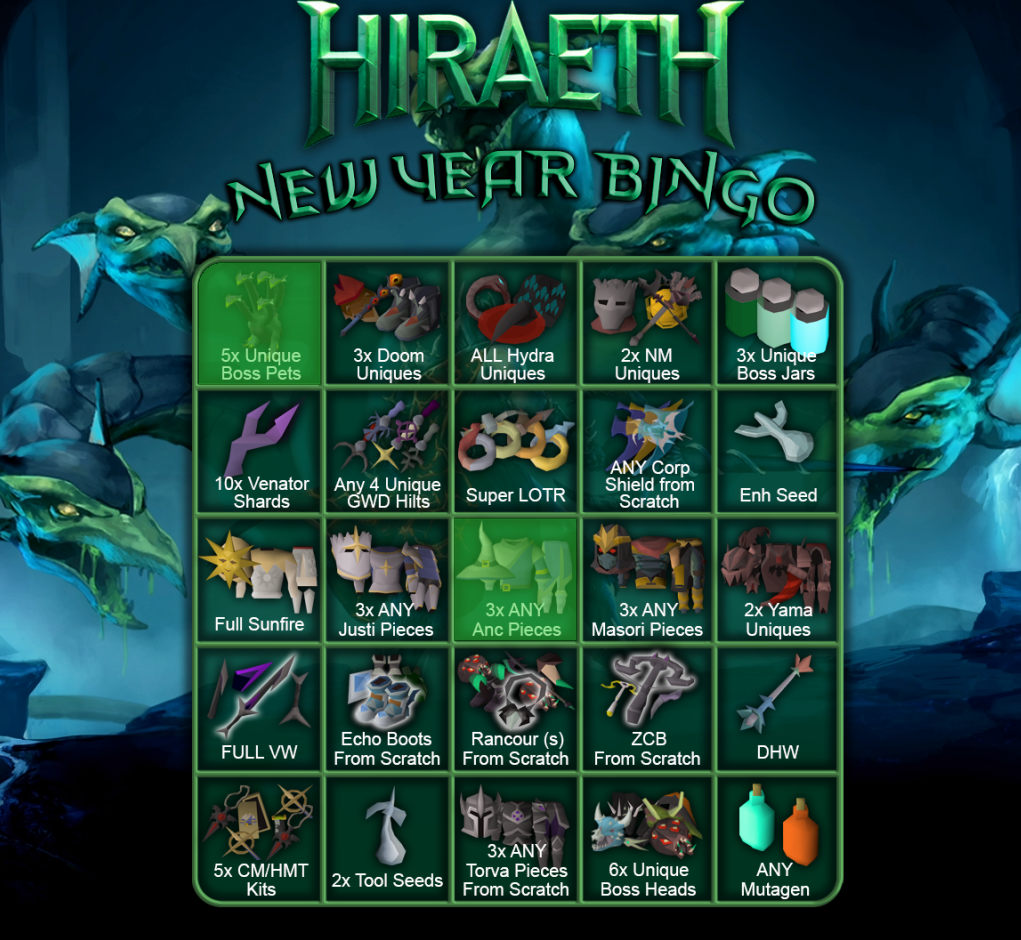
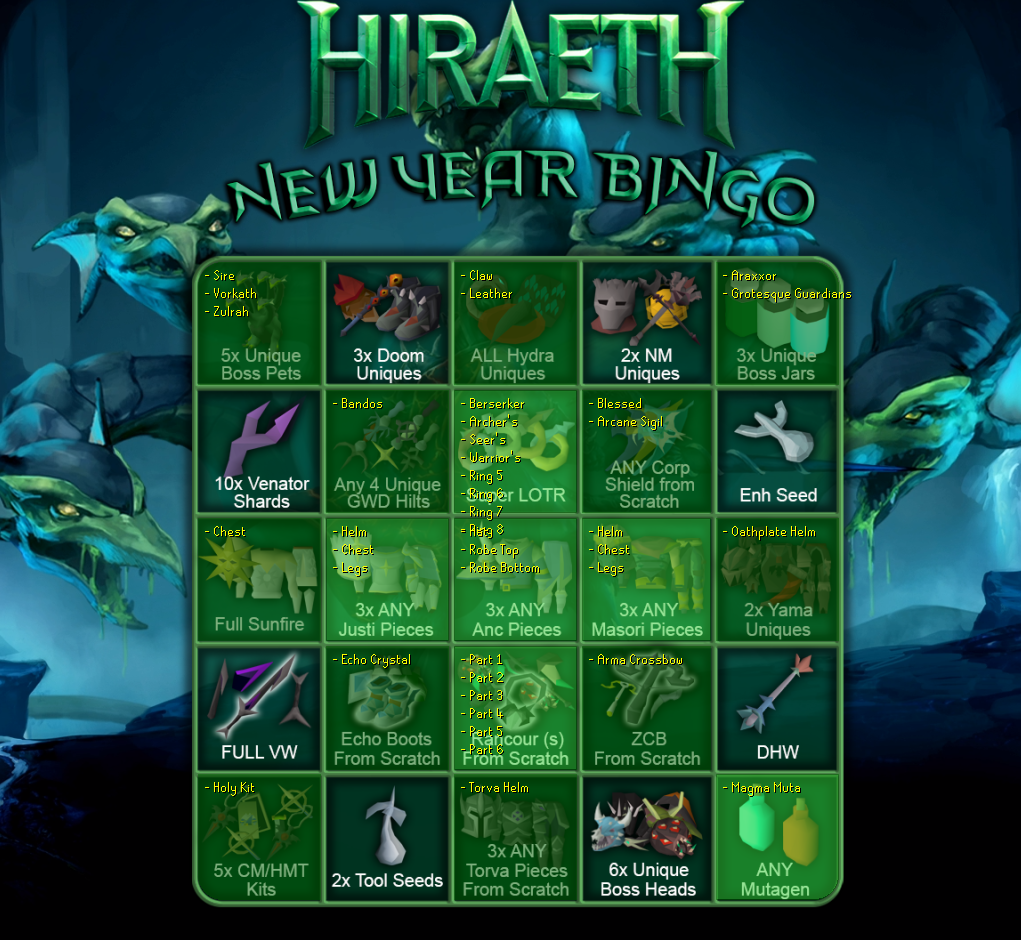
Implemented and tested update_board() function.

Changed region(s): [[0.1822, 0.2777, 0.8198, 0.9564]]

diff --git a/bingo_updater.py b/bingo_updater.py
@@ -1,33 +1,97 @@
-from PIL import Image, ImageDraw
-import sys
+from PIL import Image, ImageDraw, ImageFont
 
 
-GRID_MIN = (192, 256)
-GRID_MAX = (843, 907)
+X_MIN, Y_MIN = 192, 256
+X_MAX, Y_MAX = 843, 907
 BORDER = 6
 RADIUS = 24
+CELL_SIZE = int((X_MAX - X_MIN - 6*BORDER) / 5) - 1
 
-CELL_COLOR = "LimeGreen"
-BORDER_COLOR = "DarkGreen"
-FONT_COLOR = "Lime"
-FONT = "runescape.ttf"
+CELL_COLOR = (50, 205, 50, 255)  # 'LimeGreen'
+BORDER_COLOR = (0, 100, 0, 255)  # 'DarkGreen'
+FONT_COLOR = (255, 255, 0, 255)  # 'Yellow'
+SHADOW_COLOR = (0, 0, 0, 255)    # 'Black'
+FONT = ImageFont.truetype('fonts/runescape.ttf', 16)
 
 
-with Image.open("bingo_board.png") as img:
-    board = img.copy()
+def update_board(board_list, board_image='bingo_board.png'):
+    with Image.open(board_image) as board:
+        overlay = board.copy()
+        text_layer = Image.new('RGBA', board.size, (0, 0, 0, 0))
+
+        checked_items = get_checked(board_list)
+
+        for row in range(5):
+            for col in range(5):
+                complete = len(checked_items[row][col]) == len(board_list[row][col])
+                if checked_items[row][col]:
+                    update_tile(overlay, text_layer, row, col, to_str(checked_items[row][col]), complete)
+
+        board = Image.blend(board, overlay, 0.5)
+        board.paste(text_layer, mask=text_layer)
+        board.save('new_board.png')
+
+
+def update_tile(overlay, text_layer, row, col, list_text, complete):
+    draw_square(overlay, row, col, complete)
+    draw_text(text_layer, row, col, list_text)
+
+
+def draw_text(board, row, col, list_text):
+    draw = ImageDraw.Draw(board)
+    padding = 6
+
+    x0, y0, *_ = get_coords(row, col)
+    x0 += padding
+    y0 += padding
+
+    draw.multiline_text((x0+1, y0+1), list_text, SHADOW_COLOR, FONT)
+    draw.multiline_text((x0, y0), list_text, FONT_COLOR, FONT)
+
+
+def draw_square(board, row, col, complete):
     draw = ImageDraw.Draw(board)
 
-    x0, y0 = GRID_MIN
-    x1, y1 = GRID_MAX
-    cell_size = int((x1 - x0 - 6*BORDER) / 5) - 1
+    corners = ((row, col) == (0, 0), (row, col) == (0, 4), 
+               (row, col) == (4, 4), (row, col) == (4, 0))
+    
+    draw.rounded_rectangle(get_coords(row, col), 
+                           fill=CELL_COLOR if complete else BORDER_COLOR, 
+                           outline=BORDER_COLOR, width=1, 
+                           radius=RADIUS, corners=corners)
 
-    draw.rounded_rectangle([x0+BORDER, y0+BORDER, x0+BORDER+cell_size, y0+BORDER+cell_size], 
-                           fill=CELL_COLOR, outline=BORDER_COLOR, width=1, 
-                           radius=RADIUS, corners=(1, 0, 0, 0))
 
-    draw.rounded_rectangle([x0+3*BORDER+2*cell_size, y0+3*BORDER+2*cell_size, x0+3*BORDER+3*cell_size, y0+3*BORDER+3*cell_size], 
-                           fill=CELL_COLOR, outline=BORDER_COLOR, width=1, 
-                           radius=RADIUS, corners=(0, 0, 0, 0))
+def get_checked(board_list):
+    return [
+        [[item['text'] for item in col if item['checked']] for col in row] for row in board_list
+    ]
 
-    update = Image.blend(img, board, 0.5)
-    update.save("new_board.png")
+
+def to_str(checklist):
+    return '\n'.join(f'- {item}' for item in checklist)
+
+
+def get_coords(row, col):
+    x0 = X_MIN + (col+1)*BORDER + col*CELL_SIZE
+    y0 = Y_MIN + (row+1)*BORDER + row*CELL_SIZE
+    x1 = X_MIN + (col+1)*BORDER + (col+1)*CELL_SIZE
+    y1 = Y_MIN + (row+1)*BORDER + (row+1)*CELL_SIZE
+    # fix for uneven cell sizes
+    if col > 2:
+        x1 += 6
+    if col > 3:
+        x0 += 6
+    if row > 2:
+        y1 += 1
+    if row > 3:
+        y1 += 2
+
+    return [x0, y0, x1, y1]
+
+
+if __name__ == '__main__':
+    import json
+
+    with open('board_list.json') as fd:
+        board_list = json.load(fd)
+        update_board(board_list)

diff --git a/test/board_generator.py b/test/board_generator.py
@@ -1,0 +1,23 @@
+# Creates bingo board_list from user input for testing/debugging
+
+import json
+
+
+if __name__ == '__main__':
+    board_list = [
+        [[{'text': f'Item {index+1}', 'checked': False} for index in range(int(input(f'Number of items in ({row},{col}): ')))] for col in range(5)] for row in range(5)
+    ]
+
+    for r_index, row in enumerate(board_list):
+        for c_index, col in enumerate(row):
+            num_items = len(col)
+            for i in range(num_items):
+                item = input(f'({r_index},{c_index}:{i+1}) - ')
+                if item:
+                    col[i]['text'] = item
+                    col[i]['checked'] = True
+                else:
+                    break
+
+    with open('board_list.json', 'w') as fd:
+        json.dump(board_list, fd)
